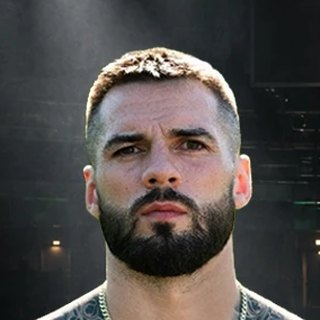
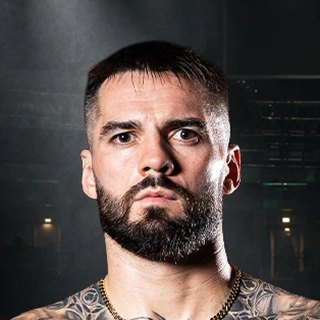
Main event is now Barry vs Teague
Paul Teague (No Mercy MMA, code TEAGUE) replaces Derik De Freitas for the
NFP middleweight title. Both headshots are cut from the new poster.

diff --git a/events.html b/events.html
@@ -120,7 +120,7 @@
 </div>
 
 <div class="bouts bouts--title" data-stagger="90">
-      <article class="bout bout--title" data-reveal aria-label="Connor Barry versus Derik De Freitas">
+      <article class="bout bout--title" data-reveal aria-label="Connor Barry versus Paul Teague">
         <header class="bout-head">
           <span class="tag">Title fight</span>
           <p class="bout-name">NFP Middleweight Championship</p>
@@ -135,10 +135,10 @@
           </div>
           <span class="vs" aria-hidden="true">VS</span>
           <div class="corner">
-            <img src="assets/img/fighters/derik-de-freitas.jpg" alt="Derik De Freitas" width="320" height="320" loading="lazy">
-            <h3 class="fighter">Derik De Freitas</h3>
-            <p class="gym">Atom BJJ</p>
-            <p class="code">Code <b>DE FREITAS</b></p>
+            <img src="assets/img/fighters/paul-teague.jpg" alt="Paul Teague" width="320" height="320" loading="lazy">
+            <h3 class="fighter">Paul Teague</h3>
+            <p class="gym">No Mercy MMA</p>
+            <p class="code">Code <b>TEAGUE</b></p>
           </div>
         </div>
       </article>

diff --git a/index.html b/index.html
@@ -209,7 +209,7 @@
 </div>
 
 <div class="bouts bouts--title" data-stagger="90">
-      <article class="bout bout--title" data-reveal aria-label="Connor Barry versus Derik De Freitas">
+      <article class="bout bout--title" data-reveal aria-label="Connor Barry versus Paul Teague">
         <header class="bout-head">
           <span class="tag">Title fight</span>
           <p class="bout-name">NFP Middleweight Championship</p>
@@ -224,10 +224,10 @@
           </div>
           <span class="vs" aria-hidden="true">VS</span>
           <div class="corner">
-            <img src="assets/img/fighters/derik-de-freitas.jpg" alt="Derik De Freitas" width="320" height="320" loading="lazy">
-            <h3 class="fighter">Derik De Freitas</h3>
-            <p class="gym">Atom BJJ</p>
-            <p class="code">Code <b>DE FREITAS</b></p>
+            <img src="assets/img/fighters/paul-teague.jpg" alt="Paul Teague" width="320" height="320" loading="lazy">
+            <h3 class="fighter">Paul Teague</h3>
+            <p class="gym">No Mercy MMA</p>
+            <p class="code">Code <b>TEAGUE</b></p>
           </div>
         </div>
       </article>

diff --git a/src/partials/fight-card.html b/src/partials/fight-card.html
@@ -10,7 +10,7 @@
 </div>
 
 <div class="bouts bouts--title" data-stagger="90">
-      <article class="bout bout--title" data-reveal aria-label="Connor Barry versus Derik De Freitas">
+      <article class="bout bout--title" data-reveal aria-label="Connor Barry versus Paul Teague">
         <header class="bout-head">
           <span class="tag">Title fight</span>
           <p class="bout-name">NFP Middleweight Championship</p>
@@ -25,10 +25,10 @@
           </div>
           <span class="vs" aria-hidden="true">VS</span>
           <div class="corner">
-            <img src="assets/img/fighters/derik-de-freitas.jpg" alt="Derik De Freitas" width="320" height="320" loading="lazy">
-            <h3 class="fighter">Derik De Freitas</h3>
-            <p class="gym">Atom BJJ</p>
-            <p class="code">Code <b>DE FREITAS</b></p>
+            <img src="assets/img/fighters/paul-teague.jpg" alt="Paul Teague" width="320" height="320" loading="lazy">
+            <h3 class="fighter">Paul Teague</h3>
+            <p class="gym">No Mercy MMA</p>
+            <p class="code">Code <b>TEAGUE</b></p>
           </div>
         </div>
       </article>

diff --git a/tools/make-fighter-headshots.py b/tools/make-fighter-headshots.py
@@ -22,7 +22,7 @@ PAD = 10            # clearance from each text band
 
 # poster file -> [(slug, face centre x in 1080 space), left then right]
 CARD = {
-    "nfp1-barry-de-freitas.webp": [("connor-barry", 284), ("derik-de-freitas", 818)],
+    "nfp1-barry-teague.webp":     [("connor-barry", 302), ("paul-teague", 768)],
     "nfp1-zahir-walsh.webp":      [("maria-zahir", 318), ("victoria-walsh", 782)],
     "nfp1-silva-medina.webp":     [("jeff-silva", 290), ("john-medina", 790)],
     "nfp1-mackey-burbach.webp":   [("shayne-mackey", 303), ("blane-burbach", 802)],

diff --git a/tools/make-fight-card.py b/tools/make-fight-card.py
@@ -17,7 +17,7 @@ BOUTS = [
     (True, "NFP Middleweight Championship",
      'Professional boxing <span class="sep">/</span> 185 lbs',
      ("connor-barry", "Connor Barry", "Imperium Martial Arts", "BARRY"),
-     ("derik-de-freitas", "Derik De Freitas", "Atom BJJ", "DE FREITAS")),
+     ("paul-teague", "Paul Teague", "No Mercy MMA", "TEAGUE")),
     (True, "NFP Bantamweight Championship",
      'Amateur kickboxing <span class="sep">/</span> 135 lbs',
      ("maria-zahir", "Maria Zahir", "Hard Knocks Everett", "ZAHIR"),
